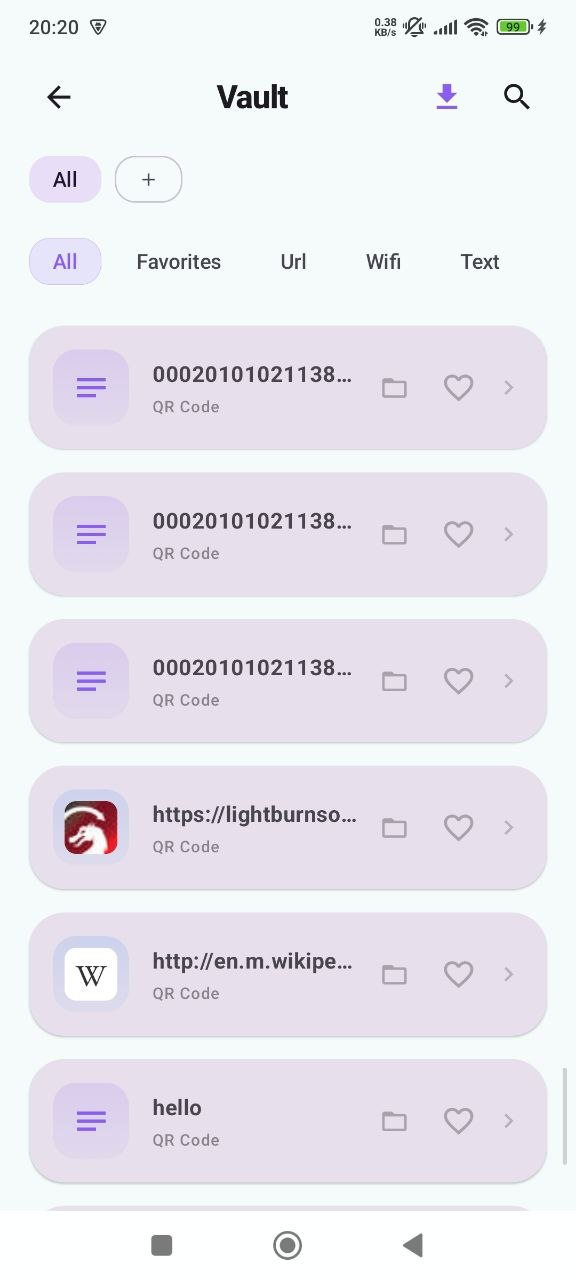
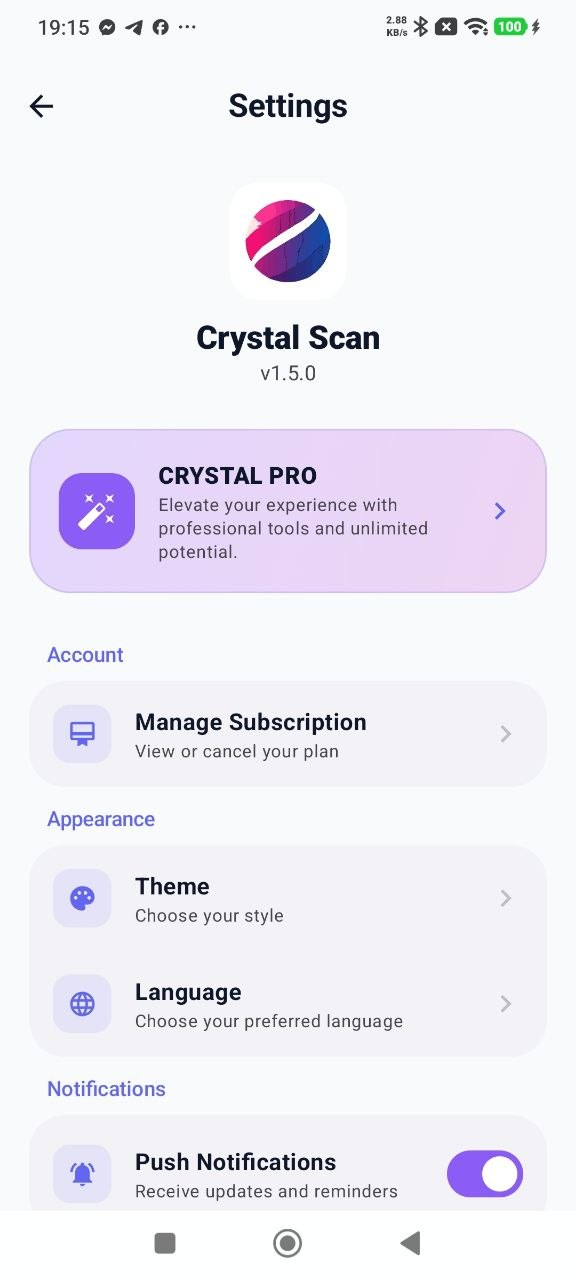
feat: add feature graphic and update screenshots to match fastlane

diff --git a/app/page.tsx b/app/page.tsx
@@ -84,6 +84,9 @@ export default function Home() {
               Explore Features
             </a>
           </div>
+          <div className="mt-12 w-full max-w-4xl rounded-3xl overflow-hidden shadow-2xl border border-zinc-200 dark:border-zinc-800 relative aspect-[1024/500]">
+            <Image src="/featureGraphic.png" alt="Crystal Scan Feature Graphic" fill className="object-cover" />
+          </div>
         </div>
       </section>
 
@@ -147,8 +150,8 @@ export default function Home() {
               </ul>
             </div>
             <div className="flex-1 grid grid-cols-2 sm:grid-cols-3 gap-4 w-full">
-              {[1, 2, 3].map((num) => (
-                <div key={num} className={`relative aspect-[9/19] rounded-2xl overflow-hidden shadow-xl border border-zinc-100 dark:border-zinc-800 transition-transform hover:-translate-y-2 ${num === 3 ? 'hidden sm:block' : ''}`}>
+              {[1, 2, 3, 4, 5, 6].map((num) => (
+                <div key={num} className={`relative aspect-[9/19] rounded-2xl overflow-hidden shadow-xl border border-zinc-100 dark:border-zinc-800 transition-transform hover:-translate-y-2 ${[3, 6].includes(num) ? 'hidden sm:block' : ''}`}>
                   <Image 
                     src={`/screenshots/${num}.jpg`} 
                     alt={`Screenshot ${num}`} 